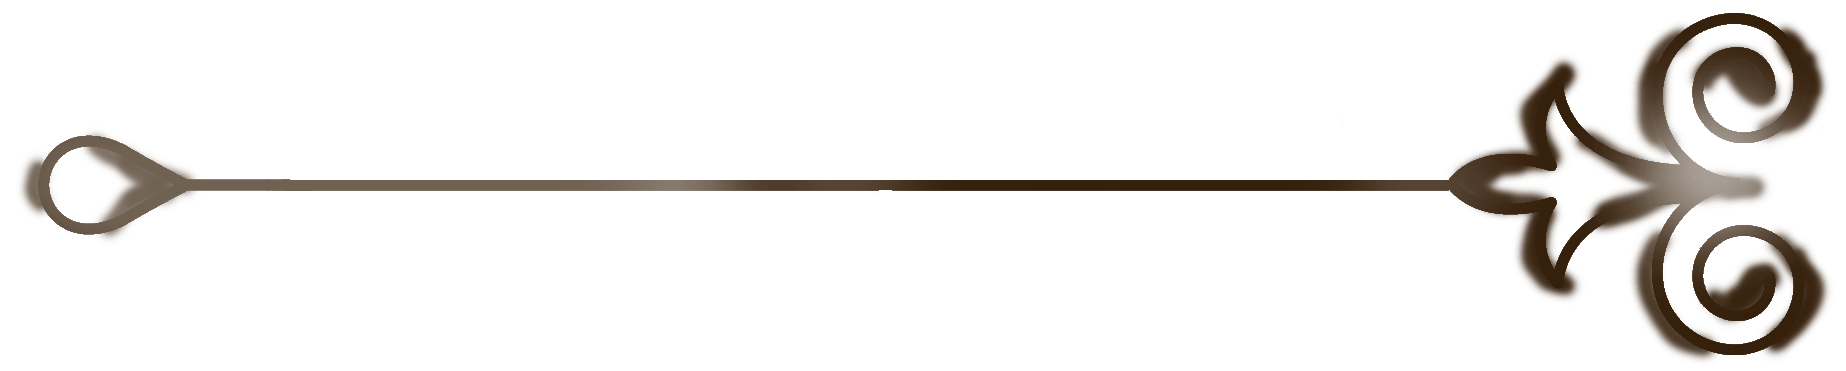
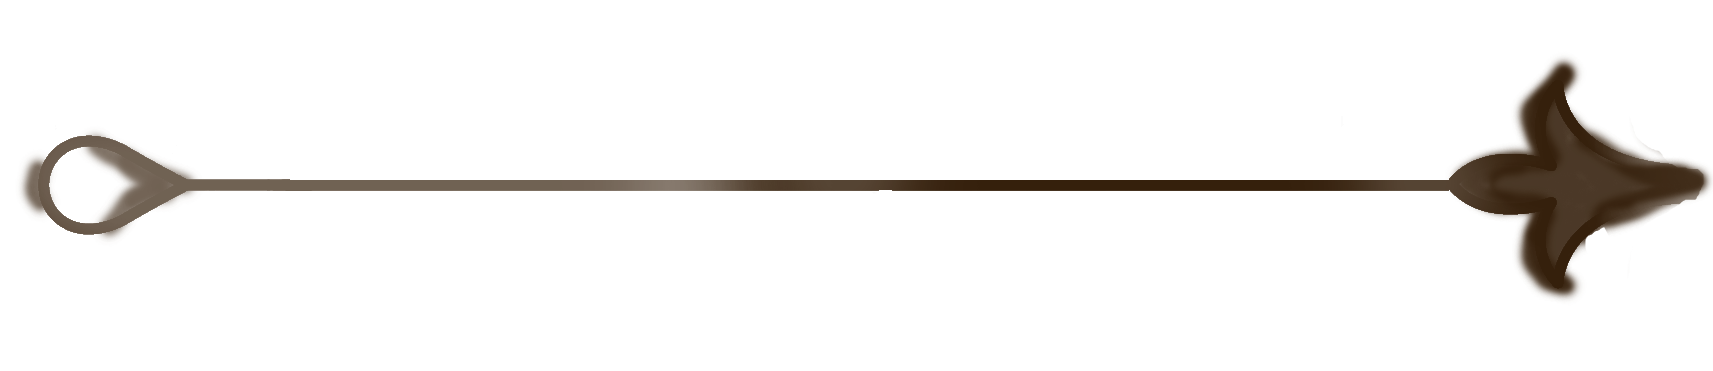
refactor: update search styles

diff --git a/src/components/CharacterCard/CharacterCard.tsx b/src/components/CharacterCard/CharacterCard.tsx
@@ -14,7 +14,6 @@ interface CharacterCardProps {
 export class CharacterCard extends Component<CharacterCardProps> {
   render() {
     const { name, house, species, gender, image } = this.props.character;
-
     const hasDetails = !!(house || species || gender);
 
     return (
@@ -38,7 +37,7 @@ export class CharacterCard extends Component<CharacterCardProps> {
                 alt={SEARCH_STRINGS.SEARCH_PARTS_TOOLTIP}
                 className="character__ornament"
               />
-              <p className="character__description-text magic-subtitle">
+              <p className="character__description-text">
                 {SEARCH_STRINGS.SEARCH_DESCRIPTION}
               </p>
               <img
@@ -57,17 +56,20 @@ export class CharacterCard extends Component<CharacterCardProps> {
                 <>
                   {house && (
                     <p className="character-details-text">
-                      <strong>House:</strong> {house}
+                      <strong>{SEARCH_STRINGS.CARD_HOUSE_LABEL}:</strong>{' '}
+                      {house}
                     </p>
                   )}
                   {species && (
                     <p className="character-details-text">
-                      <strong>Species:</strong> {species}
+                      <strong>{SEARCH_STRINGS.CARD_SPECIES_LABEL}:</strong>{' '}
+                      {species}
                     </p>
                   )}
                   {gender && (
                     <p className="character-details-text">
-                      <strong>Gender:</strong> {gender}
+                      <strong>{SEARCH_STRINGS.CARD_GENDER_LABEL}:</strong>{' '}
+                      {gender}
                     </p>
                   )}
                 </>

diff --git a/src/constants.ts b/src/constants.ts
@@ -50,7 +50,8 @@ export const SEARCH_STRINGS = {
   SEARCH_DESCRIPTION: 'Magical Archive Record',
   SEARCH_LINE_TOOLTIP: 'Line Emblem',
   SEARCH_PARTS_TOOLTIP: 'Part Emblem',
-  SEARCH_HOUSE: 'House',
-  SEARCH_SPECIES: 'Species',
-  SEARCH_GENDER: 'Gender',
+
+  CARD_HOUSE_LABEL: 'House',
+  CARD_SPECIES_LABEL: 'Species',
+  CARD_GENDER_LABEL: 'Gender',
 } as const;

diff --git a/src/components/CharacterCard/CharacterCard.css b/src/components/CharacterCard/CharacterCard.css
@@ -98,9 +98,12 @@
 }
 
 .character__description-text {
-  font-family: var(--font-body), serif;
+  font-family: var(--font-serif), serif;
   font-size: 0.8rem;
-  font-weight: bold;
+  font-weight: 700;
+  text-transform: uppercase;
+
+  color: #1c1c1c;
 }
 
 .character__ornament {
